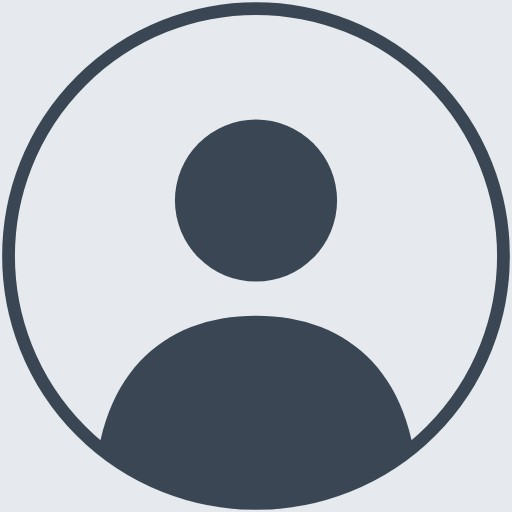
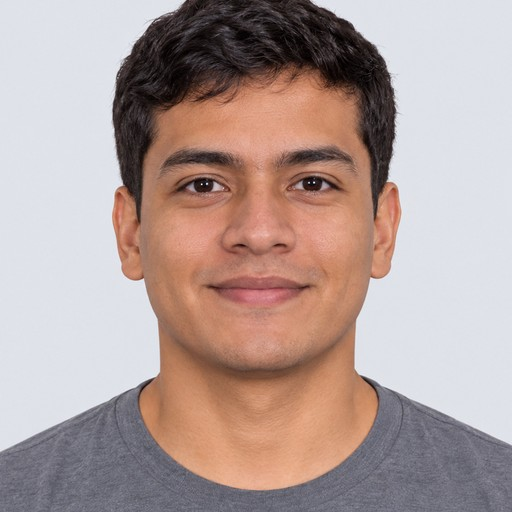
Imágenes de los agentes (hombre, mujer, IA)

diff --git a/docs/diseno.md b/docs/diseno.md
@@ -27,7 +27,7 @@ Esto reemplaza la secuencia fija de la Entrega 2 (A, B, A, A, B, B, A, B, A, B),
 
 - **Imágenes de los agentes generadas con prompts emparejados** (`docs/prompts_agentes.md`): un hombre, una mujer y una IA (robot) con el mismo encuadre, fondo, luz, ropa, expresión y edad aparente. Se muestran recortadas en círculo.
 - **Persona: hombre o mujer al azar.** En la condición "humano" cada participante ve **una sola** persona (hombre o mujer) en las 10 situaciones, asignada al azar y balanceada 50/50 dentro de cada set (`genero_agente`). Una sola persona por participante mantiene el paralelo con la IA (un solo agente). Alternar hombre y mujer entre ensayos daría dos recomendadores distintos frente a una sola IA. Con `genero_agente` se puede comprobar que ninguna de las dos imágenes arrastra el efecto (el script lo reporta como análisis exploratorio).
-- Mientras no se generen las imágenes, los archivos `ia.jpg`, `humano_hombre.jpg` y `humano_mujer.jpg` son avatares neutros de reemplazo.
+- Imágenes finales: `public/agentes/` (512×512). Las personas se recortaron un poco más cerca para que su cabeza ocupe la misma proporción del cuadro que la del robot, con los ojos a la misma altura; fondo y luminancia ya venían prácticamente iguales (≈ 164–166). Originales en `docs/agentes_originales/`.
 - **Presentación al inicio**, en las instrucciones: "En esta tarea recibirás recomendaciones de [una inteligencia artificial / una persona] que analizó las dos opciones". Misma frase, misma competencia atribuida.
 - **En cada situación**: tarjeta con avatar + "Recomendación de [una inteligencia artificial / una persona]" + la frase, y una etiqueta «Recomendada» sobre la imagen. Todo idéntico salvo avatar y nombre.
 - **"Una persona" en vez de "un amigo".** "Amigo" mezcla dos cosas (ser humano + cercanía afectiva); con "amigo", una diferencia frente a la IA podría deberse a la cercanía y no a que la fuente sea humana. Si el equipo quiere conservar "amigo" (como en la Entrega 2), se cambia en `src/data/estudio.ts`, pero conviene justificarlo en el informe.
